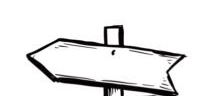
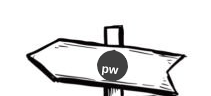
added portfolio link in the secret modal

Changed region(s): [[0.455, 0.5, 0.6256, 0.8438]]

diff --git a/project-machi/src/components/Modals/Secret.js b/project-machi/src/components/Modals/Secret.js
@@ -24,7 +24,7 @@ function SecretModal({ setSecretModal }) {
         </div>
         <div className="secret-modal">
           <p>Leaving Machi City so soon? I'm up for an adventure too, and I'm happy to drive. Where shall we go? </p>
-          <img className='sign4 sign' src={images.sign4} alt="" />
+          <a href="https://philwong.com.au/" target="_blank" rel="noreferrer"><img className='sign4 sign' src={images.sign4} alt="Portfolio Link" /></a>
 
           <a href="https://www.linkedin.com/in/phil-wong/" target="_blank" rel="noreferrer"><img className='sign3 sign' src={images.sign3} alt="My linkedin" /></a>
 

diff --git a/project-machi/src/components/Modals/Modal.scss b/project-machi/src/components/Modals/Modal.scss
@@ -222,7 +222,8 @@
   }
 
   .sign3,
-  .sign2 {
+  .sign2,
+  .sign4 {
     cursor: pointer;
   }
 }
